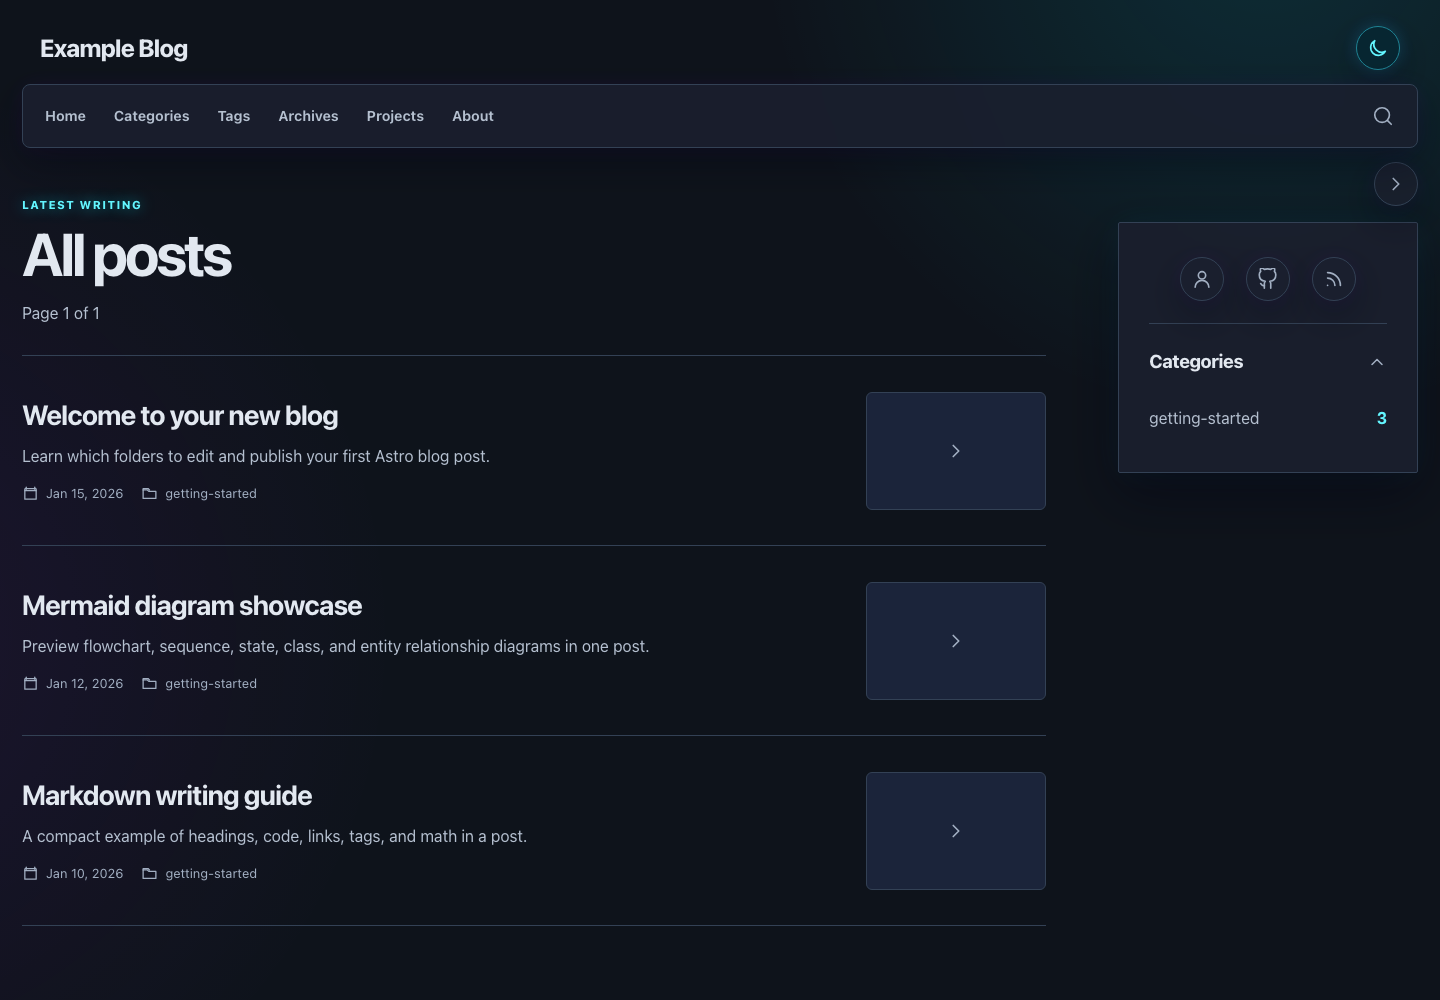
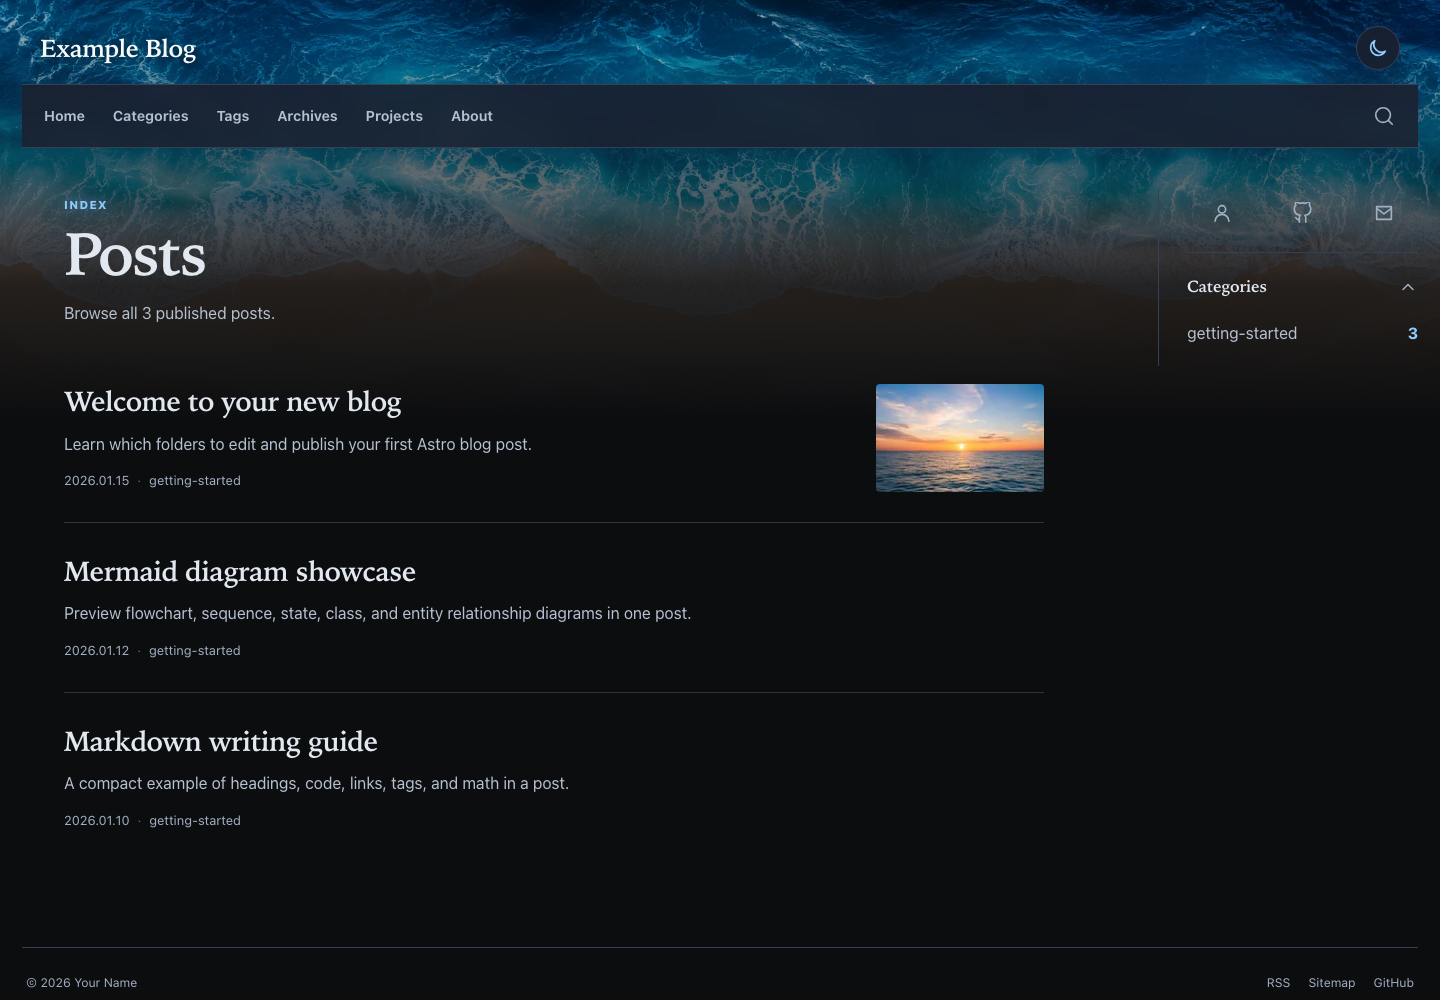
fix: refresh project template preview

diff --git a/src/styles/global.css b/src/styles/global.css
@@ -2390,12 +2390,12 @@ body.has-hero-background {
 }
 
 .project-hero {
+  display: block;
   width: min(100%, 1040px);
-  max-height: 620px;
+  height: auto;
   margin: 42px auto 0;
   border: 1px solid var(--line);
   border-radius: 6px;
-  object-fit: cover;
 }
 
 .project-content {
